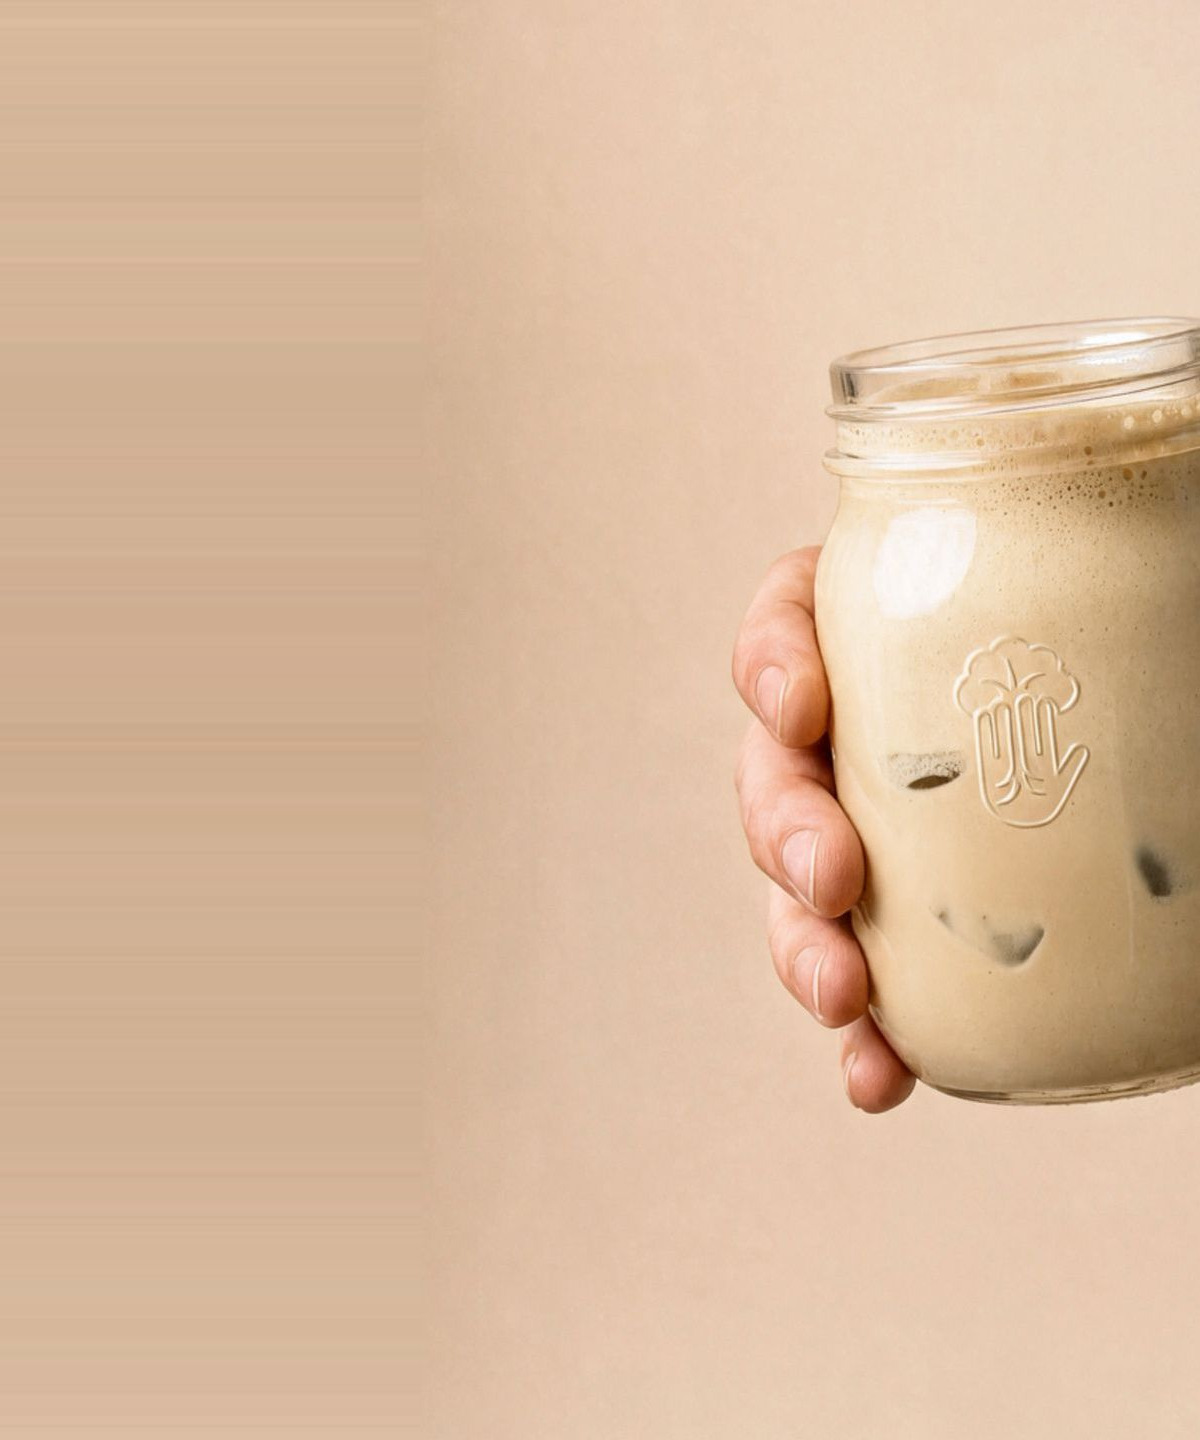
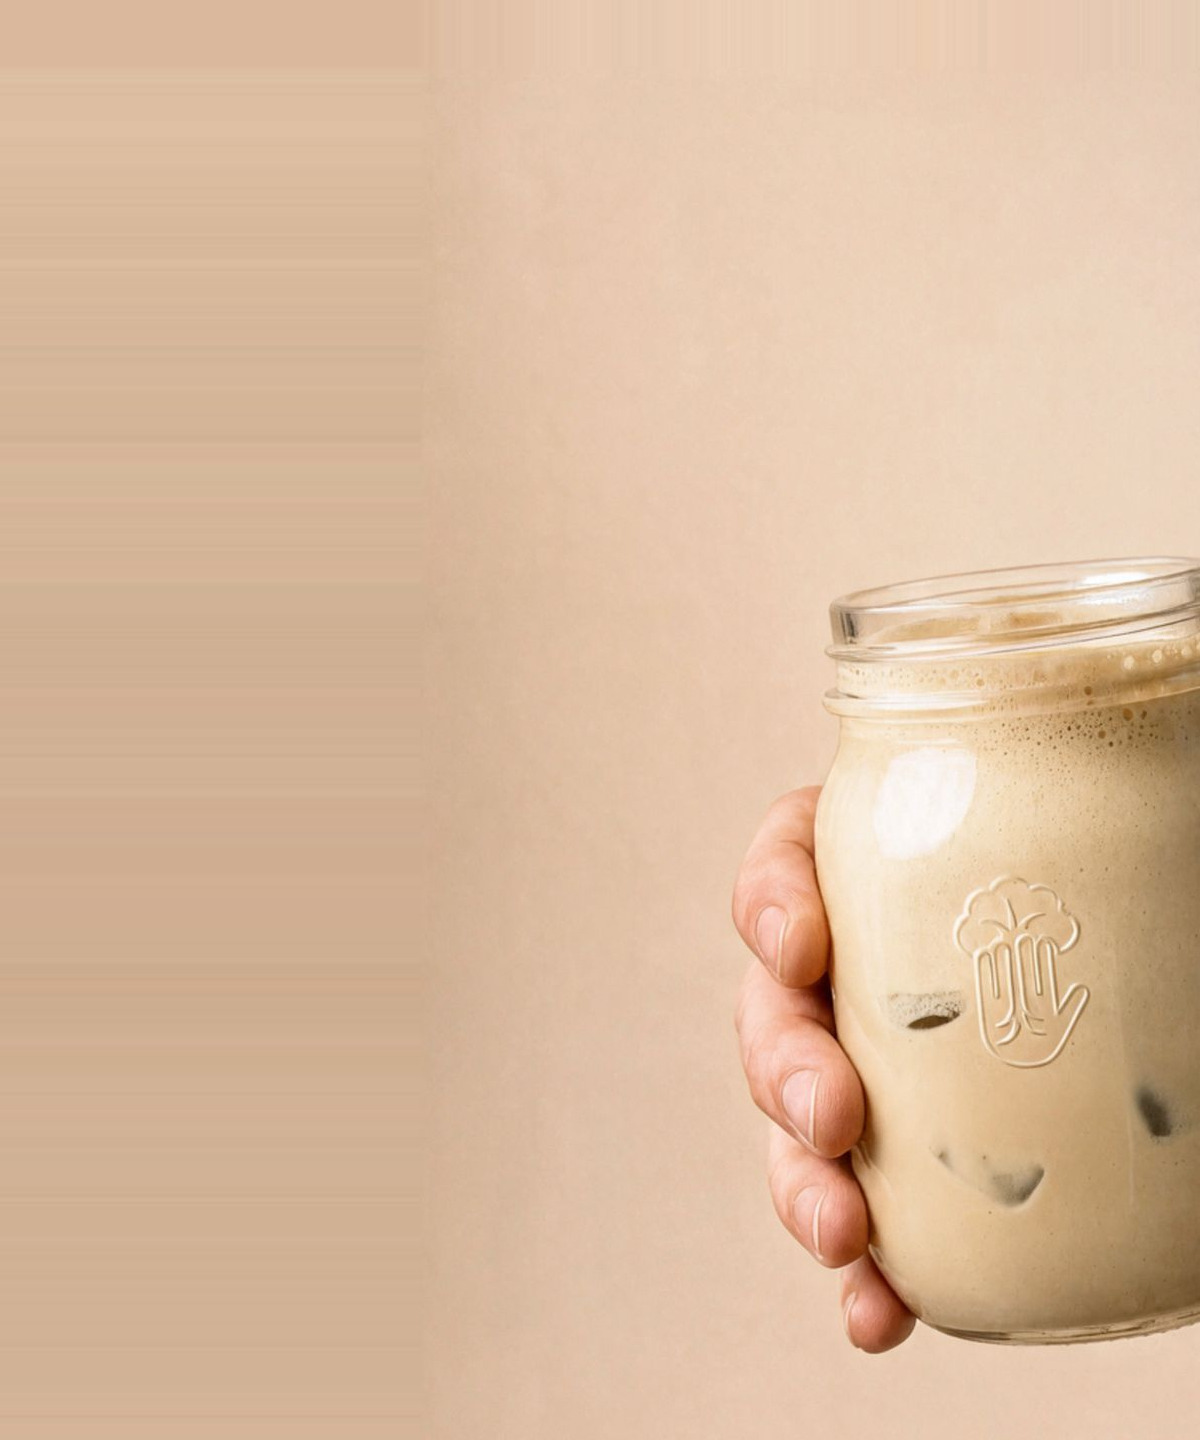
email-ds: the T8 callouts move into a forest panel
White icons, pale titles and black body text cannot share one ground: on this
section's light beige (luminance ~193) white measures about 1.35:1 and black
about 12:1. Two of the three asked for a dark field, so the rows got one.

The panel answers the rest of the brief at the same time — it separates the
intro from the benefits, sits low beside the button, and reads as a deliberate
object rather than a list floating on a photograph. White icon discs, beige
titles, cream notes; the hairlines leave its right edge and still land on the
glass. "Text below black" is the one instruction not honoured, since black on
forest is unreadable.

The art was recomposed to bring the glass down level with the panel, which
needed the backdrop extended upward from the photo's own first row — the same
edge-stretch as before, in the other direction.

Claude-Session: https://claude.ai/code/session_01NhEtXPnfeCJfN73SqBkUZ5

Changed region(s): [[0.6167, 0.2188, 1.0, 0.9375]]

diff --git a/email-ds/src/components/HeroTemplates.tsx b/email-ds/src/components/HeroTemplates.tsx
@@ -755,6 +755,10 @@ export interface T8Props {
   /** Ink for type and hairlines. Measure the backdrop; don't guess. */
   ink?: string;
   ratio?: number;
+  /** Width of the forest panel the rows sit in. */
+  panelWidth?: number;
+  /** How far the panel sits above the section's bottom edge. */
+  panelBottom?: number;
   bg?: EmailBg;
 }
 
@@ -769,6 +773,8 @@ export function T8Callouts({
   ground = '#DBBEA3',
   ink = colors.forest,
   ratio = 1.2,
+  panelWidth = 336,
+  panelBottom = 108,
   bg = 'beige',
 }: T8Props) {
   return (
@@ -798,44 +804,61 @@ export function T8Callouts({
           ) : null}
         </div>
 
-        {/* The callouts, down the left. */}
-        <div style={{ padding: '22px 0 0 24px' }}>
-          {items.map((it) => (
-            <div key={it.label} style={{ display: 'flex', alignItems: 'center', gap: 12, marginBottom: 30 }}>
-              <span style={{ flex: '0 0 auto' }}>
-                <IconBadge mark={it.mark} bg="beige" size={40} fill={colors.forest} ink="gold" />
-              </span>
-              <span style={{ flex: '0 0 auto', maxWidth: 210 }}>
-                <span style={{ ...caps(13, '0.05em', ink), display: 'block', lineHeight: 1.12 }}>{it.label}</span>
+        {/* The callouts. On a light photograph white type is unreadable, so
+            asking for white icons and pale titles is really asking for a dark
+            ground — the rows get their own forest panel, low on the section
+            and close to the button, with the hairlines leaving its right edge
+            for the glass. */}
+        <div style={{ position: 'absolute', left: 0, right: 0, bottom: panelBottom, paddingLeft: 22 }}>
+          <div
+            style={{
+              width: panelWidth,
+              background: colors.forest,
+              borderRadius: 18,
+              padding: '22px 20px 8px',
+              boxShadow: '0 16px 40px rgba(0,26,13,0.26)',
+            }}
+          >
+            {items.map((it) => (
+              <div key={it.label} style={{ display: 'flex', alignItems: 'center', gap: 12, marginBottom: 16 }}>
+                <span style={{ flex: '0 0 auto' }}>
+                  <IconBadge mark={it.mark} bg="beige" size={36} fill={colors.white} ink="forest" />
+                </span>
+                <span style={{ flex: 1 }}>
+                  <span style={{ ...caps(12.5, '0.05em', colors.beige), display: 'block', lineHeight: 1.12 }}>
+                    {it.label}
+                  </span>
+                  <span
+                    style={{
+                      fontFamily: fontStack,
+                      fontWeight: 500,
+                      fontSize: 11.5,
+                      lineHeight: 1.35,
+                      color: 'rgba(255,255,255,0.82)',
+                      display: 'block',
+                      marginTop: 3,
+                    }}
+                  >
+                    {it.note}
+                  </span>
+                </span>
+                {/* The hairline leaves the panel and runs to the glass. Length
+                    is per row, so each one lands on the product rather than
+                    stopping on a shared vertical. */}
                 <span
                   style={{
-                    fontFamily: fontStack,
-                    fontWeight: 500,
-                    fontSize: 11.5,
-                    lineHeight: 1.35,
-                    color: ink,
-                    opacity: 0.82,
+                    position: 'absolute',
+                    left: panelWidth + 22,
+                    width: it.line,
+                    height: 1,
+                    background: colors.white,
+                    opacity: 0.8,
                     display: 'block',
-                    marginTop: 3,
                   }}
-                >
-                  {it.note}
-                </span>
-              </span>
-              {/* The hairline. Length is per row so every line lands on the
-                  glass instead of stopping on a shared vertical. */}
-              <span
-                style={{
-                  flex: '0 0 auto',
-                  height: 1,
-                  width: it.line,
-                  background: ink,
-                  opacity: 0.55,
-                  display: 'block',
-                }}
-              />
-            </div>
-          ))}
+                />
+              </div>
+            ))}
+          </div>
         </div>
 
         {cta ? (

diff --git a/email-ds/emails/new-campaign.jsx b/email-ds/emails/new-campaign.jsx
@@ -67,11 +67,11 @@ function NewCampaign() {
       // Line lengths are per row so each one lands on the glass rather than
       // stopping on a shared vertical.
       items: [
-        { mark: 'yerba-mate', label: 'Clean, sustained energy', note: 'For walking into work already on your second gear.', line: 112 },
-        { mark: 'lions-mane', label: 'Mental clarity & focus', note: 'For when your brain clocks in before you do.', line: 118 },
-        { mark: 'l-theanine', label: 'Balanced calm', note: 'For keeping your cool when your boss starts the day with “Got a minute?”', line: 108 },
-        { mark: 'check', label: 'No jitters, no crash', note: 'For when your inbox is already testing you at 8:47 AM.', line: 104 },
-        { mark: 'leaf', label: 'Antioxidant-rich', note: 'For giving your morning routine a little extra goodness.', line: 106 },
+        { mark: 'yerba-mate', label: 'Clean, sustained energy', note: 'For walking into work already on your second gear.', line: 74 },
+        { mark: 'lions-mane', label: 'Mental clarity & focus', note: 'For when your brain clocks in before you do.', line: 80 },
+        { mark: 'l-theanine', label: 'Balanced calm', note: 'For keeping your cool when your boss starts the day with “Got a minute?”', line: 70 },
+        { mark: 'check', label: 'No jitters, no crash', note: 'For when your inbox is already testing you at 8:47 AM.', line: 66 },
+        { mark: 'leaf', label: 'Antioxidant-rich', note: 'For giving your morning routine a little extra goodness.', line: 68 },
       ],
     }),
     Gap(44),

diff --git a/.claude/skills/email-design/assets/design-memory-template.md b/.claude/skills/email-design/assets/design-memory-template.md
@@ -72,10 +72,26 @@ it overrides the skill's reference files, because it is newer and came from him 
 | 2026-09-18 | Blocks | **T8 · callout diagram** — product right, benefits down the left, a hairline from each one reaching the product. The lines must ACTUALLY TOUCH it; a line stopping in open space reads as decoration | Bernat |
 | 2026-09-18 | Images | For a diagram section, **extend the photograph's backdrop from its own edge pixels** rather than filling with a sampled colour — a studio backdrop vignettes, so its corner is not its edge and a flat fill leaves a seam | Bernat |
 | 2026-09-18 | Images | **A `Frame` ratio must match its art's own aspect.** The frame crops to fill, so a mismatch silently zooms the picture — and in a diagram every callout line then points at the wrong part of the product | Bernat |
+| 2026-09-18 | Blocks | In T8 the callout rows sit in a **forest panel** — white icon discs, beige titles, cream notes — placed low and close to the CTA, with the hairlines leaving the panel's right edge for the product. The panel is what makes pale type possible over a light photograph | Bernat |
 
 ---
 
 ## Log
+
+**2026-09-18 — the panel, and why it had to exist.** Bernat asked for white icons, white or beige
+titles and black body text. On this section's ground — the photograph's own light beige, luminance
+around 193 — white type measures about 1.35:1 and is simply unreadable, while black reads at about
+12:1. The three instructions could not all hold on one ground.
+
+Two of the three pointed at a dark field, so that is what the rows got: a **forest panel**, with
+white icon discs, beige titles and cream notes. It answers the rest of the brief at the same time —
+it separates the intro from the benefits, it sits low beside the button, and it reads as a
+deliberate object rather than a list floating on a photograph. The one instruction not honoured is
+"text below black", which would be invisible on green; cream carries it instead.
+
+The art was recomposed to bring the glass down level with the panel, which needed the backdrop
+extended **upward** from the photo's own first row — the same edge-stretch trick as before, in the
+other direction.
 
 **2026-09-18 — the callout diagram, and a claim that could not go in.** Bernat sent the MUD\WTR
 pumpkin-spice section and five benefit lines to replicate. Four went in as written. **"Less stress,

diff --git a/email-ds/.design-sync/design-memory.md b/email-ds/.design-sync/design-memory.md
@@ -72,10 +72,26 @@ it overrides the skill's reference files, because it is newer and came from him 
 | 2026-09-18 | Blocks | **T8 · callout diagram** — product right, benefits down the left, a hairline from each one reaching the product. The lines must ACTUALLY TOUCH it; a line stopping in open space reads as decoration | Bernat |
 | 2026-09-18 | Images | For a diagram section, **extend the photograph's backdrop from its own edge pixels** rather than filling with a sampled colour — a studio backdrop vignettes, so its corner is not its edge and a flat fill leaves a seam | Bernat |
 | 2026-09-18 | Images | **A `Frame` ratio must match its art's own aspect.** The frame crops to fill, so a mismatch silently zooms the picture — and in a diagram every callout line then points at the wrong part of the product | Bernat |
+| 2026-09-18 | Blocks | In T8 the callout rows sit in a **forest panel** — white icon discs, beige titles, cream notes — placed low and close to the CTA, with the hairlines leaving the panel's right edge for the product. The panel is what makes pale type possible over a light photograph | Bernat |
 
 ---
 
 ## Log
+
+**2026-09-18 — the panel, and why it had to exist.** Bernat asked for white icons, white or beige
+titles and black body text. On this section's ground — the photograph's own light beige, luminance
+around 193 — white type measures about 1.35:1 and is simply unreadable, while black reads at about
+12:1. The three instructions could not all hold on one ground.
+
+Two of the three pointed at a dark field, so that is what the rows got: a **forest panel**, with
+white icon discs, beige titles and cream notes. It answers the rest of the brief at the same time —
+it separates the intro from the benefits, it sits low beside the button, and it reads as a
+deliberate object rather than a list floating on a photograph. The one instruction not honoured is
+"text below black", which would be invisible on green; cream carries it instead.
+
+The art was recomposed to bring the glass down level with the panel, which needed the backdrop
+extended **upward** from the photo's own first row — the same edge-stretch trick as before, in the
+other direction.
 
 **2026-09-18 — the callout diagram, and a claim that could not go in.** Bernat sent the MUD\WTR
 pumpkin-spice section and five benefit lines to replicate. Four went in as written. **"Less stress,
